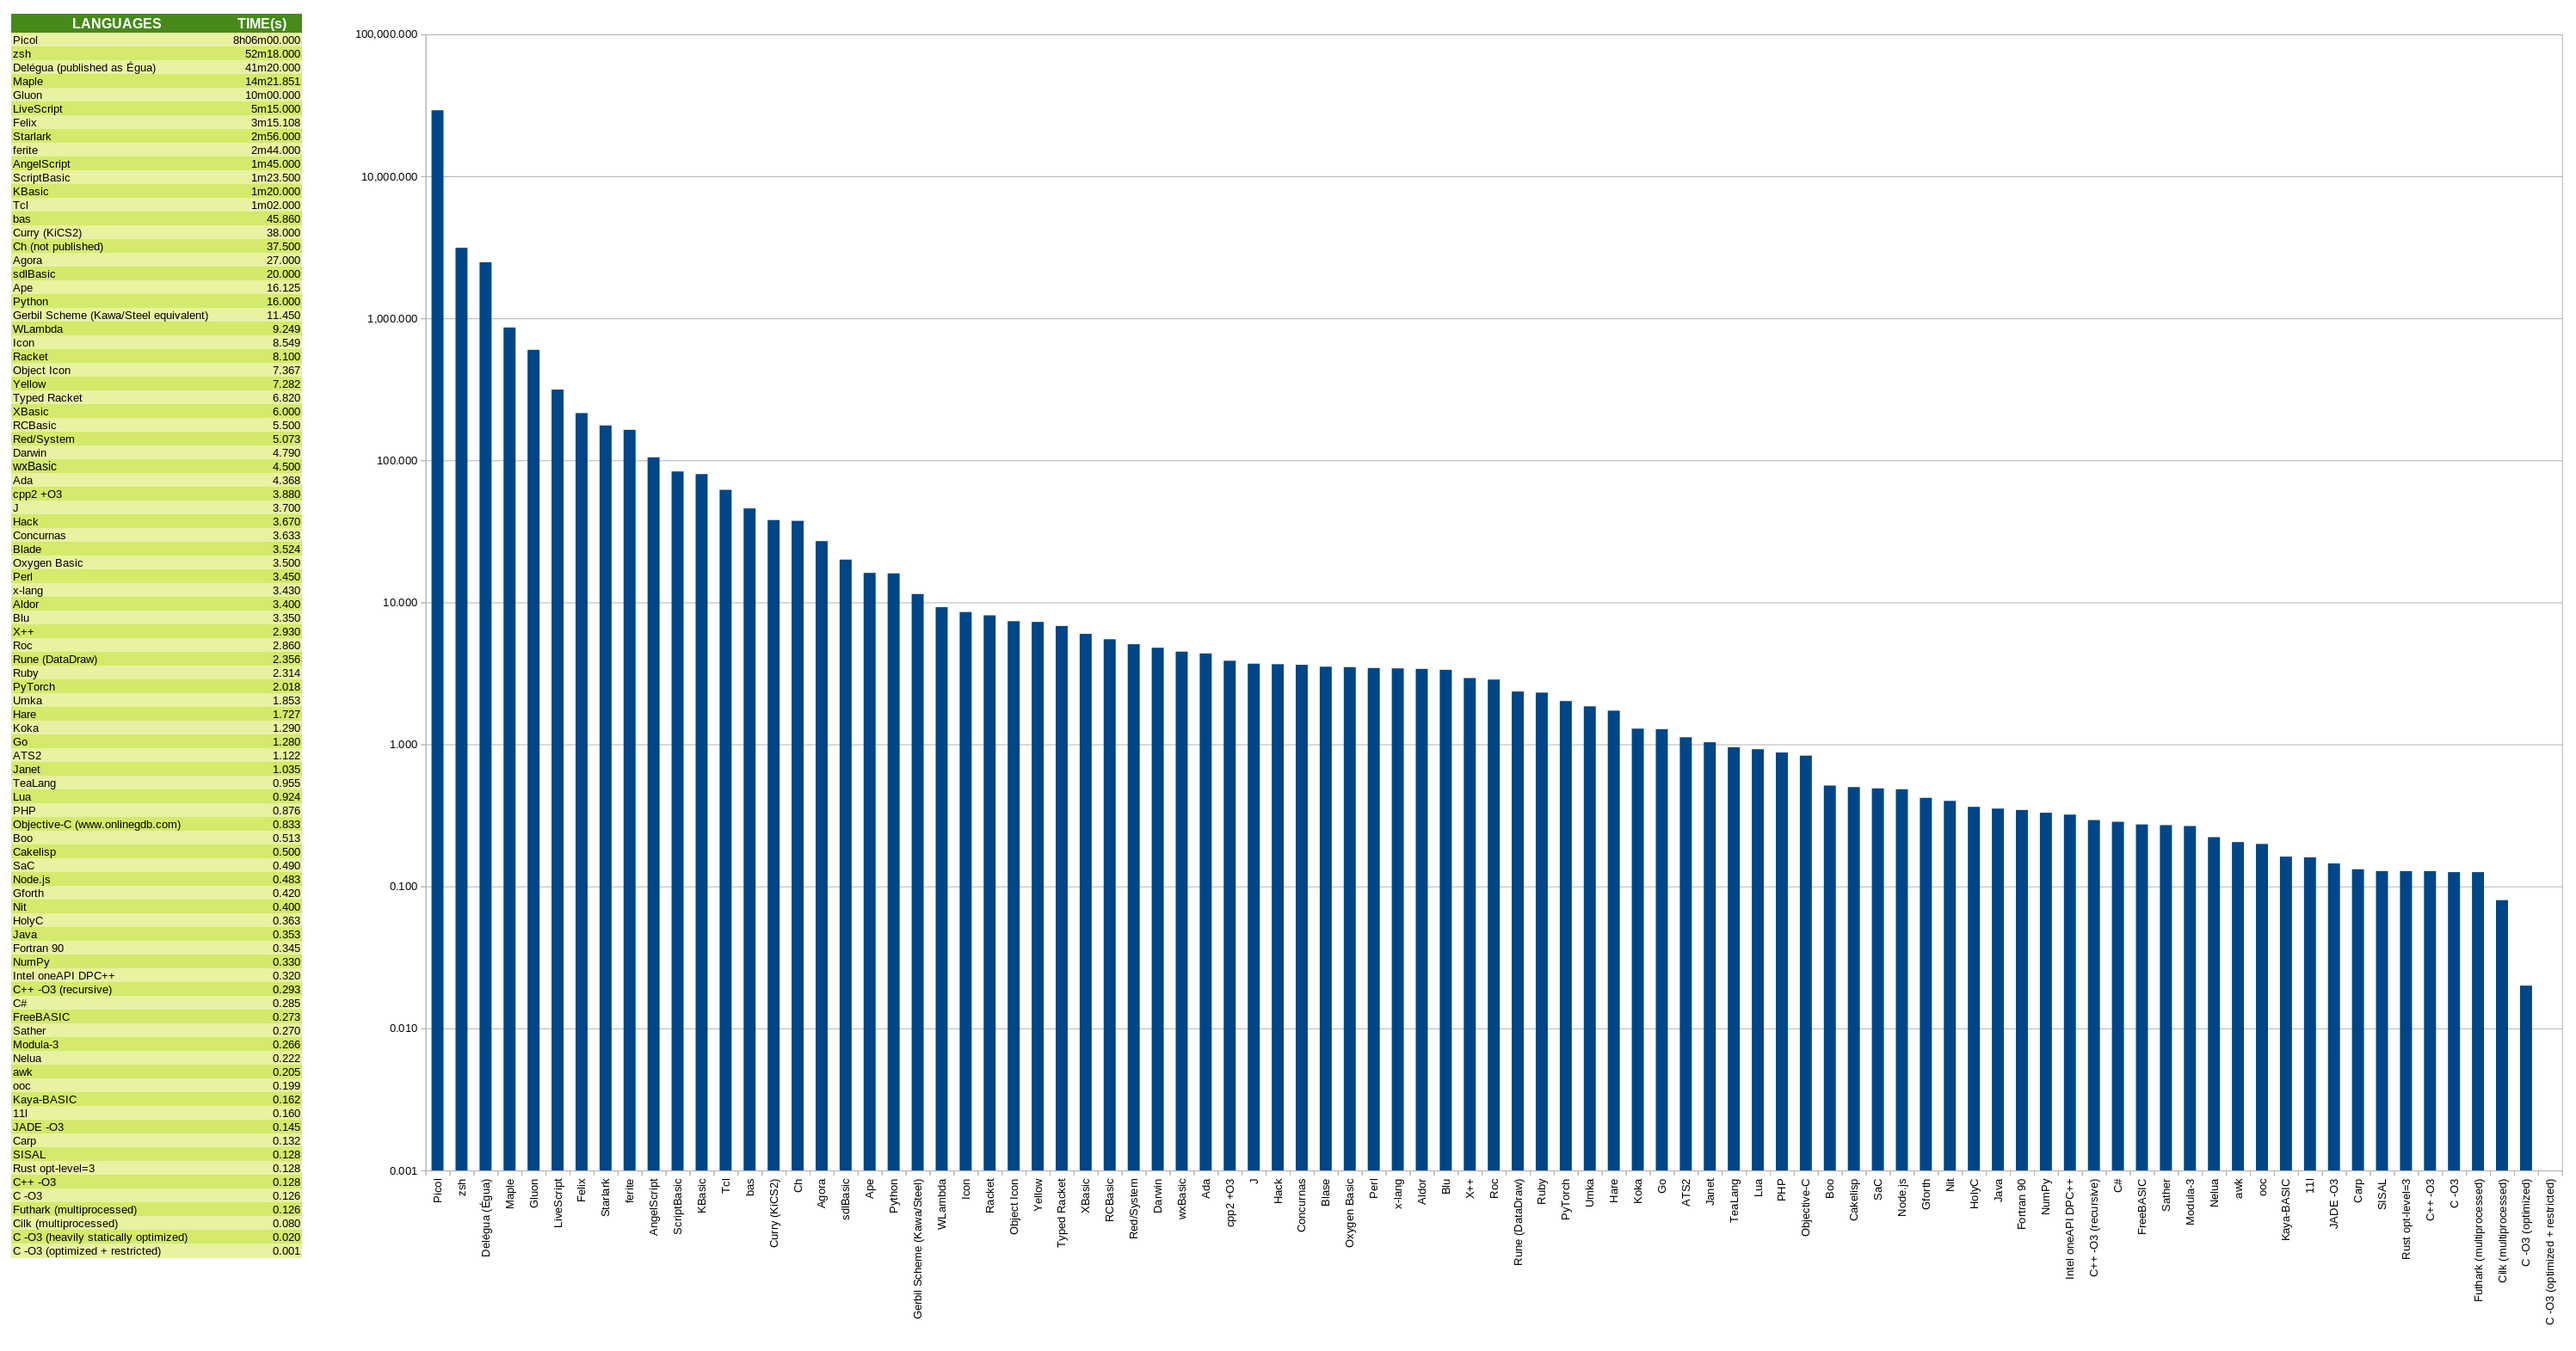
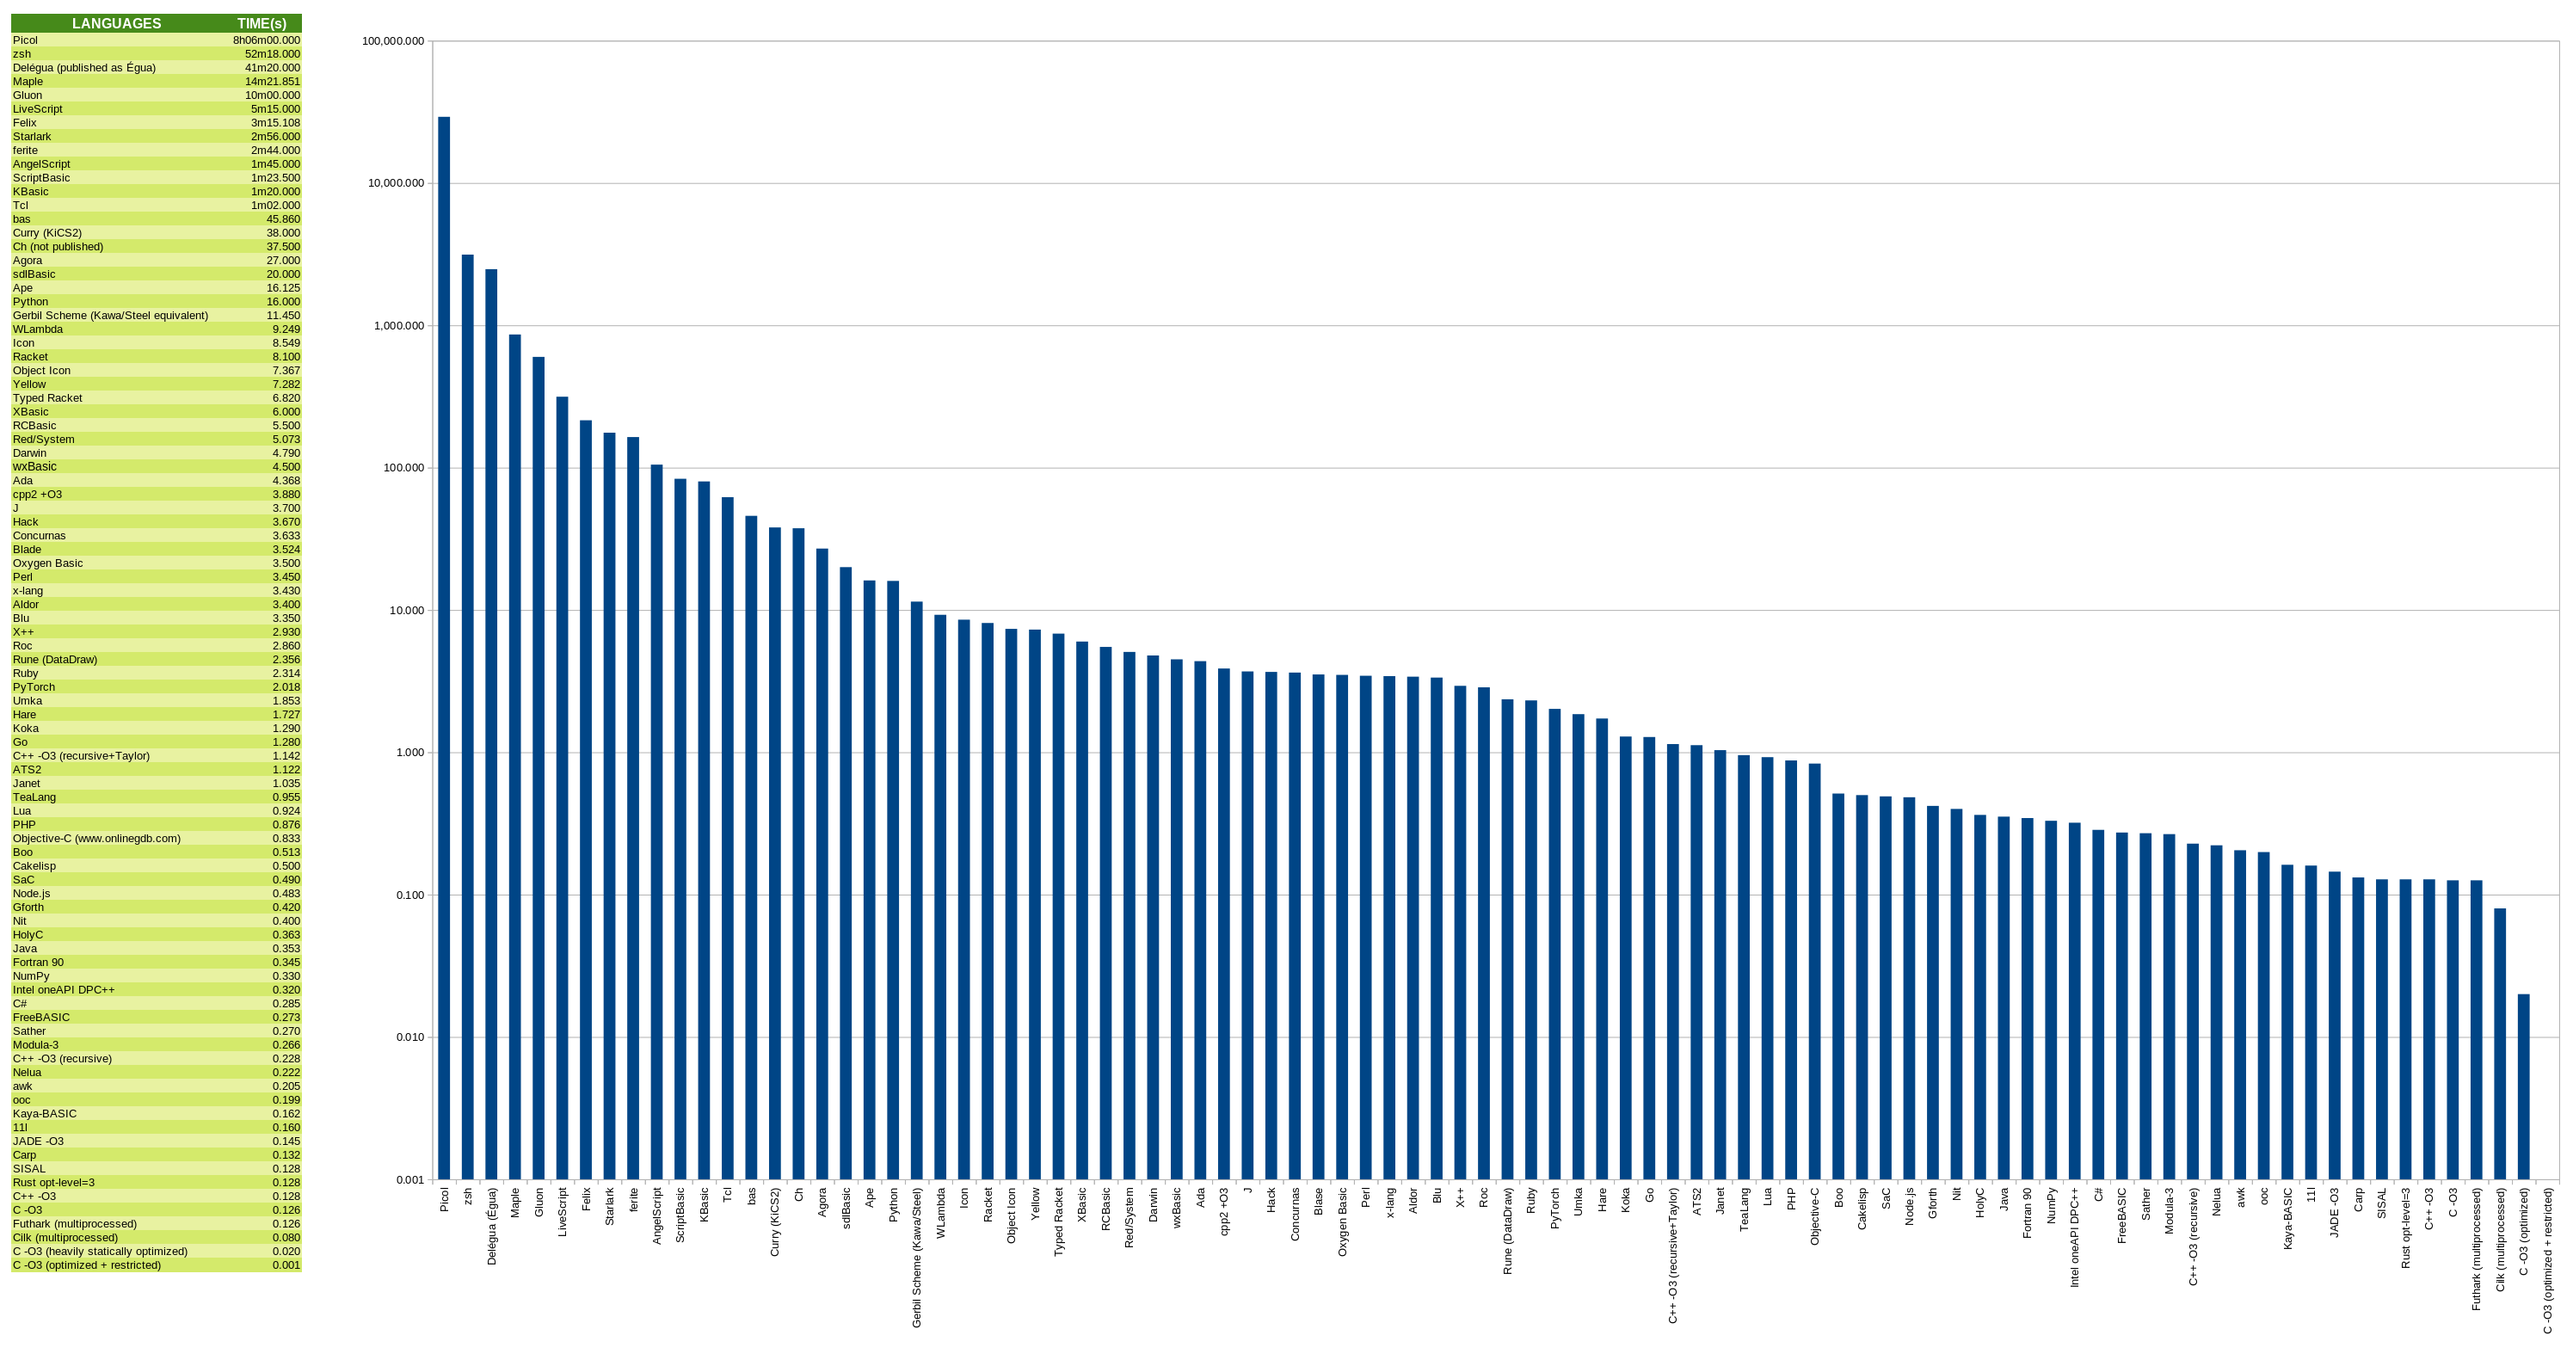
Add files via upload
+ C++ com recursão e séries de Taylor

Changed region(s): [[0.1555, 0.0624, 0.995, 0.9669], [0.0, 0.0, 0.1244, 0.9357]]

diff --git a/juros_rec_taylor.cpp b/juros_rec_taylor.cpp
@@ -1,0 +1,166 @@
+// Cálculo dos juros, sendo que precisa de parcelas pra isso
+// Versão 0.1: 26/07/2026: versão recursiva com as séries de Taylor recursivas e normalizadas
+// COMPILAR: g++ -Ofast -march=native -DNDEBUG -std=c++17 juros_rec_taylor.cpp -o juros_rec_taylor
+// PREPARAR PARA MUITAS PARCELAS (TESTADO ATÉ 300.000): ulimit -s 65536
+
+#include <vector>  // vector
+#include <iomanip>  // setprecision
+#include <iostream>  // couts
+
+#define LN2 0.69314718055994530
+
+// essa função é especial para expoentes inteiros (usada por exp)
+double rpowint(double base, long expoente) {
+	if (expoente < 0) return rpowint(1.0 / base, -expoente);
+	if (expoente == 0) return 1.0;
+	if (expoente % 2 == 0) return rpowint(base * base, expoente / 2);
+	return base * rpowint(base * base, (expoente - 1) / 2);
+}
+
+// função recursiva que calcula ln()
+double rln(double indice, double soma, double termo, double yy) {
+    if(soma + termo == soma) return soma; else return rln(indice + 1.0, soma + termo / (2.0 * indice - 1.0), termo * yy, yy);
+}
+
+// função que calcula ajuste quando valor >= 2.0
+double raddajuste(double valor) {
+    if(valor >= 2.0) return 1.0 + raddajuste(valor / 2.0); else return 0.0;
+}
+
+// função que calcula ajuste quando valor <> 1.0
+double rsubajuste(double valor) {
+    if(valor < 1.0) return -1.0 + rsubajuste(valor * 2.0); else return 0.0;
+}
+
+// função ln() açúcar normalizada, de uso geral
+double ln(double valor) {
+    double ajuste, x, termo, yy;
+
+    // normaliza
+    if(valor >= 2.0) {
+        ajuste = raddajuste(valor);
+        x = valor / rpowint(2.0, ajuste);
+    } else {
+        if(valor < 1.0) {
+            ajuste = rsubajuste(valor);
+            x = valor / rpowint(2.0, ajuste);
+        } else {
+            x = valor;
+            ajuste = 0.0;
+        }
+    }
+
+    termo = (x - 1.0) / (x + 1.0);
+    yy = termo * termo;
+
+    return 2.0 * rln(1.0, 0.0, termo, yy) + ajuste * LN2;
+}
+
+// função recursiva que calcula exp()
+double rexp(double indice, double soma, double termo, double valor) {
+    if(soma + termo == soma) return soma; else return rexp(indice + 1.0, soma + termo, termo * valor / (indice + 1), valor);
+}
+
+// função exp() açúcar normalizada, de uso geral
+double exp(double valor) {
+    long ajuste;
+    double x;
+
+    ajuste = (long)(valor / LN2) - (valor < 0.0 ? 1 : 0);
+    x = valor - ajuste * LN2;
+
+    return rexp(1.0, 1.0, x, x) * rpowint(2.0, ajuste);
+}
+
+// pown() é calculado pela equação clássica expn(lnn(base) * expoente)
+double pow(double base, double expoente) {
+    return exp(ln(base) * expoente);
+}
+
+// variáveis globais para simplificar as chamadas de função
+int Quantidade;
+bool Composto;
+double Periodo;
+std::vector<double> Pagamentos;
+std::vector<double> Pesos;
+
+// função recursiva que cria Pagamentos
+std::vector<double> rGeraPagamentos(int indice) {
+    if (indice <= 0) return {};
+    std::vector<double> resultado = rGeraPagamentos(indice - 1); resultado.push_back(indice * Periodo); return resultado;
+}
+
+// açúcar que cria Pagamentos
+std::vector<double> geraPagamentos() { return rGeraPagamentos(Quantidade); }
+
+// função recursiva que cria Pesos
+std::vector<double> rGeraPesos(int indice) {
+    if (indice <= 0) return {};
+    std::vector<double> resultado = rGeraPesos(indice - 1); resultado.push_back(1.0); return resultado;
+}
+
+// açúcar que cria Pesos
+std::vector<double> geraPesos() { return rGeraPesos(Quantidade); }
+
+// função recursiva que calcula a somatória de Pesos
+double rGetPesoTotal(int indice) { if (indice < 0) return 0.0; else return Pesos[indice] + rGetPesoTotal(indice - 1);}
+
+// açúcar que calcula a somatória de Pesos
+double getPesoTotal() { return rGetPesoTotal(Quantidade - 1); }
+
+// função recursiva que calcula a somatória dos amortecimentos de juros compostos
+double rJurosCompostos(double juros, int indice) {
+    if (indice < 0) return 0.0; else return Pesos[indice] / pow(1.0 + juros / 100.0, Pagamentos[indice] / Periodo) + rJurosCompostos(juros, indice - 1);
+}
+
+// função recursiva que calcula a somatória dos amortecimentos de juros simples
+double rJurosSimples(double juros, int indice) {
+    if (indice < 0) return 0.0; else return Pesos[indice] / (1.0 + juros / 100.0 * Pagamentos[indice] / Periodo) + rJurosSimples(juros, indice - 1);
+}
+
+// calcula o acréscimo a partir dos juros e parcelas (com algum açúcar)
+double jurosParaAcrescimo(double juros) {
+    if (Composto) return (getPesoTotal() / rJurosCompostos(juros, Quantidade - 1) - 1.0) * 100.0;
+             else return (getPesoTotal() / rJurosSimples(juros, Quantidade - 1) - 1.0) * 100.0;
+}
+
+// função recursiva que calcula os juros a partir do acréscimo e parcelas
+double rAcrescimoParaJuros(double acrescimo, double minDiferenca, int iteracao, double minJuros, double maxJuros, double medJuros) {
+    if (iteracao <= 0 || maxJuros - minJuros < minDiferenca) return medJuros;
+    else if (jurosParaAcrescimo(medJuros) < acrescimo)
+        return rAcrescimoParaJuros(acrescimo, minDiferenca, (iteracao - 1), medJuros, maxJuros, (medJuros + maxJuros) / 2.0);
+        else return rAcrescimoParaJuros(acrescimo, minDiferenca, (iteracao - 1), minJuros, medJuros, (minJuros + medJuros) / 2.0);
+}
+
+// açúcar que calcula os juros a partir do acréscimo e parcelas
+double acrescimoParaJuros(double acrescimo, int precisao, int maxIteracoes, double maxJuros) {
+    return rAcrescimoParaJuros(acrescimo, pow(0.1, precisao), maxIteracoes, 0.0, maxJuros, maxJuros / 2.0);
+}
+
+// função principal
+int main() {
+    // define como padrão 15 casas decimais depois da vírgula
+    std::cout << std::fixed << std::setprecision(15);
+
+    // inicializa as variáveis escalares globais
+    Quantidade = 300000;
+    Composto = true;
+    Periodo = 30.0;
+
+    // inicializam recursivamente os vetores globais
+    Pagamentos = geraPagamentos();
+    Pesos = geraPesos();
+
+    // calcula e guarda os resultados das funções
+    double pesoTotal = getPesoTotal();
+    double acrescimoCalculado = jurosParaAcrescimo(3.0);
+    double jurosCalculado = acrescimoParaJuros(acrescimoCalculado, 15, 65, 50.0);
+
+    // imprime os resultados
+    std::cout << "Peso total = " << pesoTotal << std::endl;
+    std::cout << "Acréscimo = " << acrescimoCalculado << std::endl;
+    std::cout << "Juros = " << jurosCalculado << std::endl;
+
+    // retorna sucesso
+    return 0;
+}
